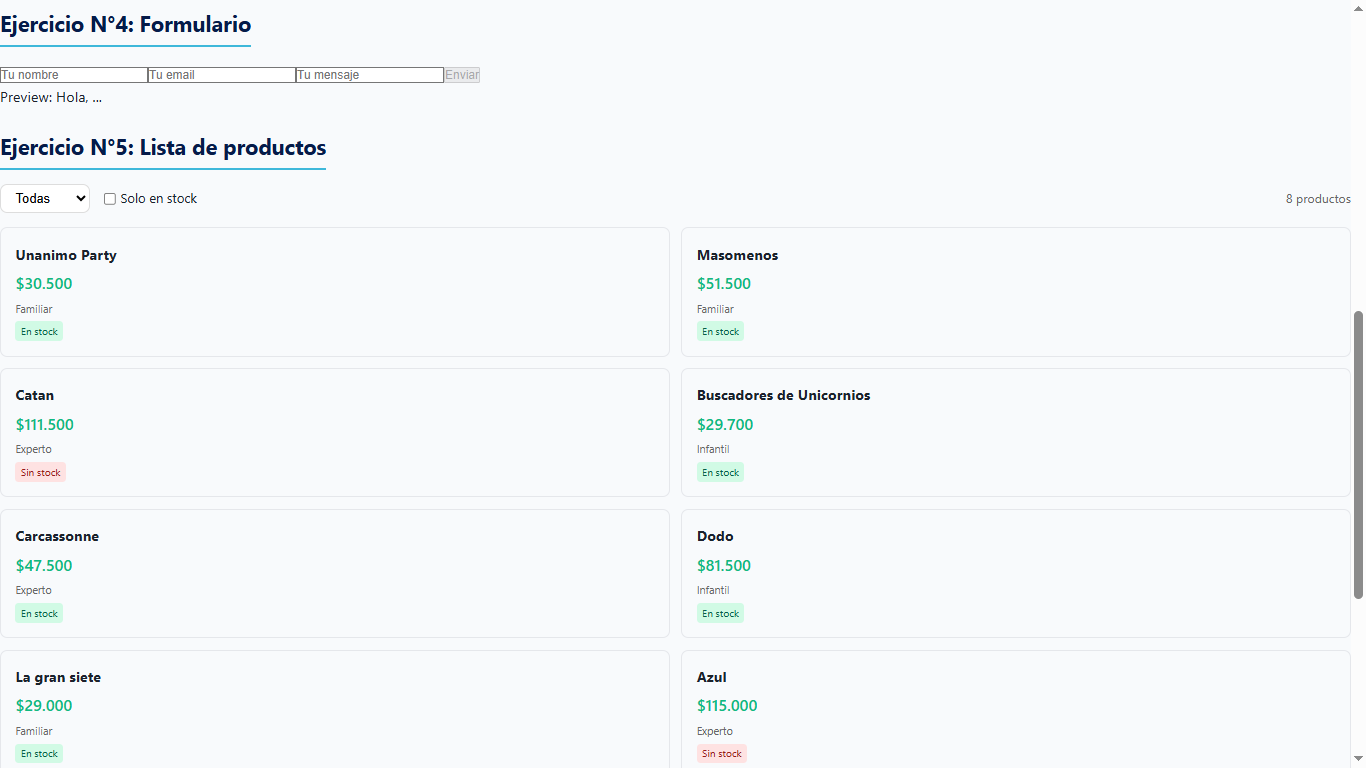
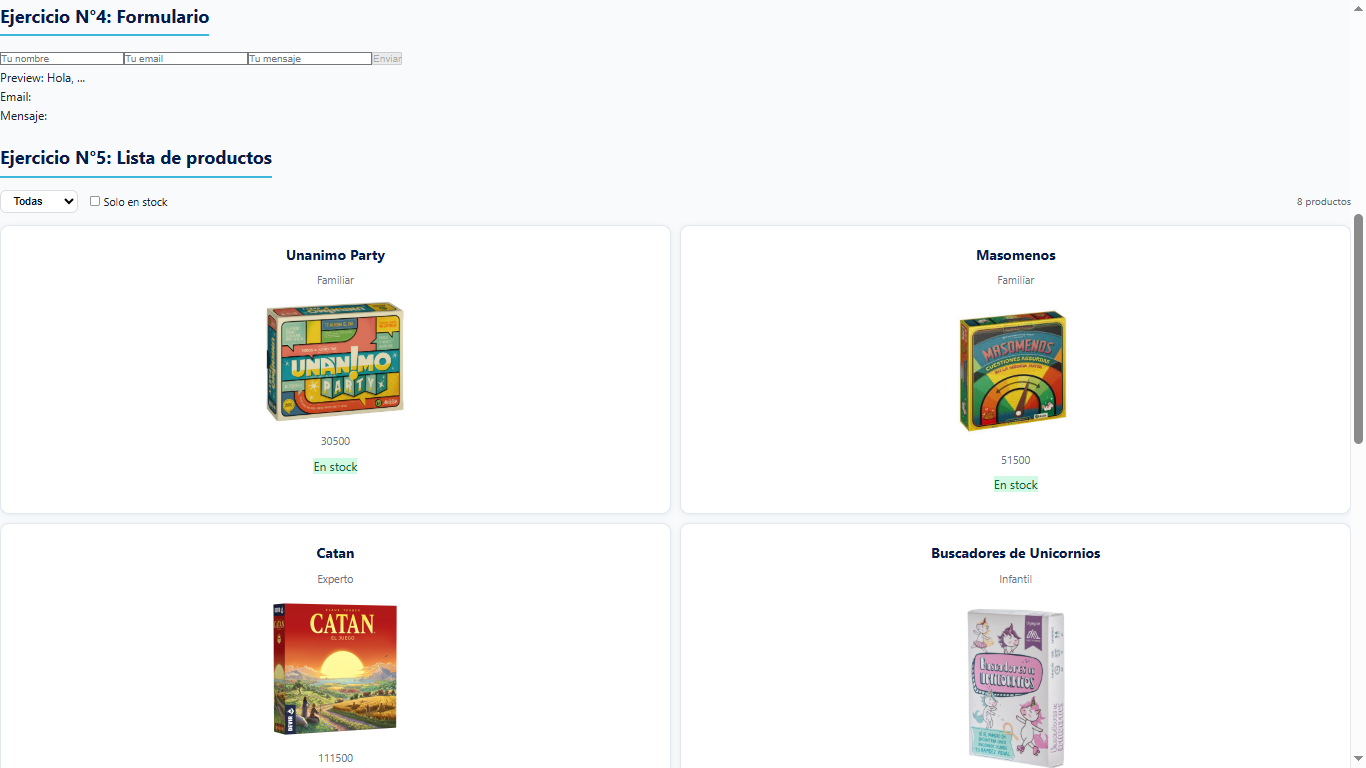
Organizar archivos

diff --git a/src/components/ProductList.jsx b/src/components/ProductList.jsx
@@ -1,4 +1,5 @@
 import { useState } from "react";
+import Card from "./Card.jsx";
 
 /*
  * EJERCICIO 5: Lista de Productos con Filtrado
@@ -12,14 +13,14 @@ import { useState } from "react";
 
 // Datos fijos (no necesitan useState porque no cambian)
 const PRODUCTOS = [
-  { id: 1, nombre: "Unanimo Party",             precio: 30500,  categoria: "Familiar", enStock: true },
-  { id: 2, nombre: "Masomenos",                 precio: 51500,  categoria: "Familiar", enStock: true },
-  { id: 3, nombre: "Catan",                     precio: 111500, categoria: "Experto",  enStock: false },
-  { id: 4, nombre: "Buscadores de Unicornios",  precio: 29700,  categoria: "Infantil", enStock: true },
-  { id: 5, nombre: "Carcassonne",               precio: 47500,  categoria: "Experto",  enStock: true },
-  { id: 6, nombre: "Dodo",                      precio: 81500,  categoria: "Infantil", enStock: true },
-  { id: 7, nombre: "La gran siete",             precio: 29000,  categoria: "Familiar", enStock: true },
-  { id: 8, nombre: "Azul",                      precio: 115000, categoria: "Experto",  enStock: false },
+  { id: 1, nombre: "Unanimo Party",             precio: 30500,  categoria: "Familiar", imagen: "https://apioverde.com/cdn/shop/files/D_752953-MLA82943246847_032025-F_1024x1024.jpg?v=1752591096", enStock: true },
+  { id: 2, nombre: "Masomenos",                 precio: 51500,  categoria: "Familiar", imagen: "https://encrypted-tbn0.gstatic.com/images?q=tbn:ANd9GcS1Jv-u0rkyDRsltEFQ1XkPr7cDFXoZuH8Lyw&s", enStock: true },
+  { id: 3, nombre: "Catan",                     precio: 111500, categoria: "Experto",  imagen: "https://devirinvestments.s3.eu-west-1.amazonaws.com/img/catalog/product/8436017220100-1200-face3d.jpg", enStock: false },
+  { id: 4, nombre: "Buscadores de Unicornios",  precio: 29700,  categoria: "Infantil", imagen: "https://acdn-us.mitiendanube.com/stores/393/260/products/caja-2-sin-fondo-50228732860869db5e17586395054900-480-0.webp", enStock: true },
+  { id: 5, nombre: "Carcassonne",               precio: 47500,  categoria: "Experto",  imagen: "https://encrypted-tbn0.gstatic.com/images?q=tbn:ANd9GcQ0QZhisa2tKRa2YTmjEjXPBMwT3DkYtKgcuQ&s", enStock: true },
+  { id: 6, nombre: "Dodo",                      precio: 81500,  categoria: "Infantil", imagen: "https://devirinvestments.s3.eu-west-1.amazonaws.com/img/catalog/product/8436589627406-1200-face3d.jpg", enStock: true },
+  { id: 7, nombre: "La gran siete",             precio: 29000,  categoria: "Familiar", imagen: "https://acdn-us.mitiendanube.com/stores/117/811/products/la-gran-siete1-50b594c3bc539b637216580990369888-640-0.webp", enStock: true },
+  { id: 8, nombre: "Azul",                      precio: 115000, categoria: "Experto",  imagen: "https://http2.mlstatic.com/D_NQ_NP_2X_939158-MLA99525260442_122025-F.webp", enStock: false },
   ];
 
 // Sacamos las categorias unicas del array
@@ -74,18 +75,22 @@ function ListaProductos() {
           <p className="vacio">No hay productos con esos filtros.</p>
         ) : (
           productosFiltrados.map((producto) => (
-            <div
-              key={producto.id}
-              className={`producto-card ${!producto.enStock ? "sin-stock" : ""}`}
-            >
-              <div className="nombre">{producto.nombre}</div>
-              <div className="precio">${producto.precio.toLocaleString("es-AR")}</div>
-              <div className="categoria">{producto.categoria}</div>
-              <span className={`badge-stock ${producto.enStock ? "badge-si" : "badge-no"}`}>
-                {producto.enStock ? "En stock" : "Sin stock"}
-              </span>
-            </div>
-          ))
+  <Card
+    key={producto.id}
+    titulo={producto.nombre}
+    descripcion={producto.categoria}
+    imagen={producto.imagen}
+    precio={producto.precio}
+  >
+    <span
+      className={`badge-stock ${
+        producto.enStock ? "badge-si" : "badge-no"
+      }`}
+    >
+      {producto.enStock ? "En stock" : "Sin stock"}
+    </span>
+  </Card>
+))
         )}
       </div>
       

diff --git a/src/App.css b/src/App.css
@@ -131,15 +131,15 @@ body {
 .formulario-grid { display: grid; grid-template-columns: 1fr 1fr; gap: 2rem; }
 @media (max-width: 600px) { .formulario-grid { grid-template-columns: 1fr; } }
 .form-grupo { margin-bottom: 1rem; }
-.form-grupo label { display: block; font-weight: 600; margin-bottom: 0.4rem; color: var(--gris-800); font-size: 0.9rem; }
+.form-grupo label { display: block; font-weight: 600; margin-bottom: 0.4rem; color: var(--text); font-size: 0.9rem; }
 .form-grupo input, .form-grupo select, .form-grupo textarea {
-  width: 100%; padding: 0.6rem 0.8rem; border: 2px solid var(--gris-200);
+  width: 100%; padding: 0.6rem 0.8rem; border: 2px solid var(--text-light);
   border-radius: 8px; font-size: 0.95rem; font-family: inherit; transition: border-color 0.2s;
 }
-.form-grupo input:focus, .form-grupo select:focus, .form-grupo textarea:focus { outline: none; border-color: var(--azul); }
+.form-grupo input:focus, .form-grupo select:focus, .form-grupo textarea:focus { outline: none; border-color: var(--secondary); }
 .preview-card {
-  background: linear-gradient(135deg, var(--azul-oscuro), #2563eb);
-  color: var(--blanco); padding: 1.5rem; border-radius: var(--radio); height: fit-content;
+  background: linear-gradient(135deg, var(--secondary), #2563eb);
+  color: var(--bg); padding: 1.5rem; border-radius: var(--radius); height: fit-content;
 }
 .preview-card h3 { font-size: 1.1rem; margin-bottom: 1rem; opacity: 0.8; }
 .preview-card .preview-nombre { font-size: 1.5rem; font-weight: 700; margin-bottom: 0.5rem; }

diff --git a/src/App.jsx b/src/App.jsx
@@ -35,21 +35,21 @@ function App() {
             titulo="Catan"
             descripcion="Juego de estrategia y azar"
             imagen="https://devirinvestments.s3.eu-west-1.amazonaws.com/img/catalog/product/8436017220100-1200-face3d.jpg"
-            precio="$20000"
+            precio={200000}
           />
 
           <Card
             titulo="Carcassone"
             descripcion="Juego de estrategia con losetas"
             imagen="https://encrypted-tbn0.gstatic.com/images?q=tbn:ANd9GcQ0QZhisa2tKRa2YTmjEjXPBMwT3DkYtKgcuQ&s"
-            precio="$20000"
+            precio={150000}
           />
 
           <Card
             titulo="El Espía"
             descripcion="Juego de roles ocultos"
             imagen="https://diadejuegos.pe/2009-large_default/el-espia-que-se-perdio.jpg"
-            precio="$20000"
+            precio={30000}
           />          
 
           {/* Card 2: con children (un <Boton /> adentro(ya no)) */}
@@ -57,7 +57,7 @@ function App() {
             titulo="Buscadores de unicornios"
             descripcion="Juego infantil"
             imagen="https://acdn-us.mitiendanube.com/stores/393/260/products/caja-2-sin-fondo-50228732860869db5e17586395054900-480-0.webp"
-            precio="$20000"
+            precio={15000}
           >
           </Card>
         </section>

diff --git a/src/components/ContactForm.jsx b/src/components/ContactForm.jsx
@@ -8,6 +8,7 @@ function Formulario() {
     const handleSubmit = (e) => {
         e.preventDefault();  // evita recarga de página
         alert(`Hola ${nombre}! Tu email es ${email}. Tu mensaje es ${mensaje}`);
+        console.log({ nombre, email, mensaje });
     };
 
     return (
@@ -25,13 +26,13 @@ function Formulario() {
                 placeholder="Tu email"
             />
             <input
-                type="mensaje"
+                type="text"
                 value={mensaje}                     // controlado
                 onChange={(e) => setMensaje(e.target.value)}
                 placeholder="Tu mensaje"
             />
             <button type="submit" disabled={!nombre || !email || !mensaje}>Enviar</button>
-            <p>Preview: Hola, {nombre || "..."}</p>
+            <p>Preview: Hola, {nombre || "..."}</p><p>Email: {email}</p><p>Mensaje: {mensaje}</p>
         </form>
     );
 }

diff --git a/src/components/Card.jsx b/src/components/Card.jsx
@@ -16,13 +16,13 @@
 //  La diferencia: el primer Card no tiene children, el segundo sí.
 // ═══════════════════════════════════════════════════════════════
 
-function Card({titulo, descripcion, imagen, precio, children }) {
+function Card({titulo, descripcion, imagen, precio=0, children }) {
   return (
     <article className="card">
       <h3>{titulo}</h3>
       <p>{descripcion}</p>
       <img src={imagen} alt={titulo}/>
-      <p>{precio}</p>
+      <p>${precio}</p>
 
       {/* children solo se renderiza si el padre le mandó algo adentro */}
       {children}

diff --git a/src/components/Footer.jsx b/src/components/Footer.jsx
@@ -4,7 +4,7 @@
 //  Si nadie pasa la prop "texto", se usa "© 2026 Mi App".
 // ═══════════════════════════════════════════════════════════════
 
-function Footer({ texto = '© Club de Juegos de Mesa "El Rincón de Hermes" '}) {
+function Footer({ texto = '© Club de Juegos de Mesa "El Rincón de Hermes" - '}) {
   return (
     <footer className="footer">
       <p>{texto}{new Date().getFullYear()} </p>
